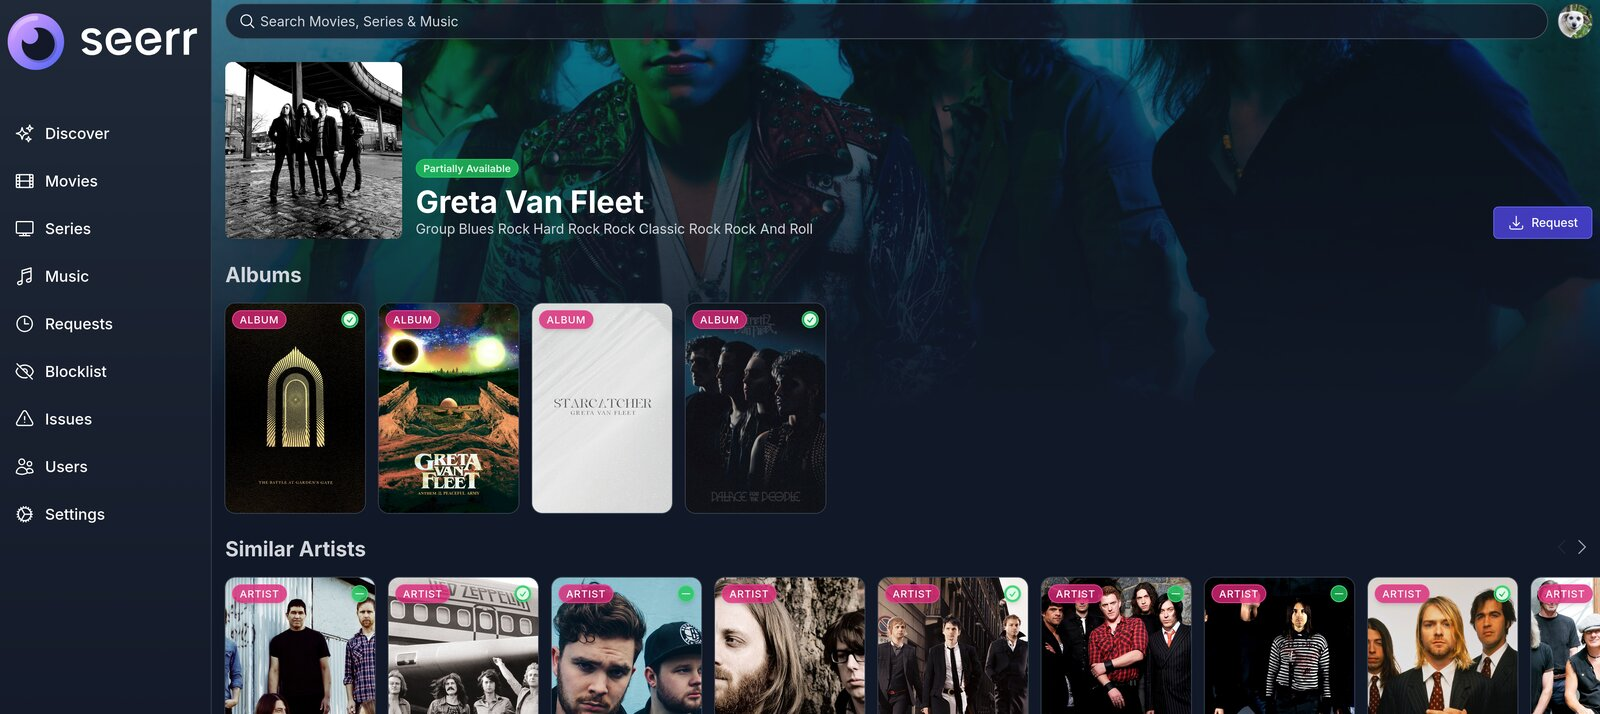
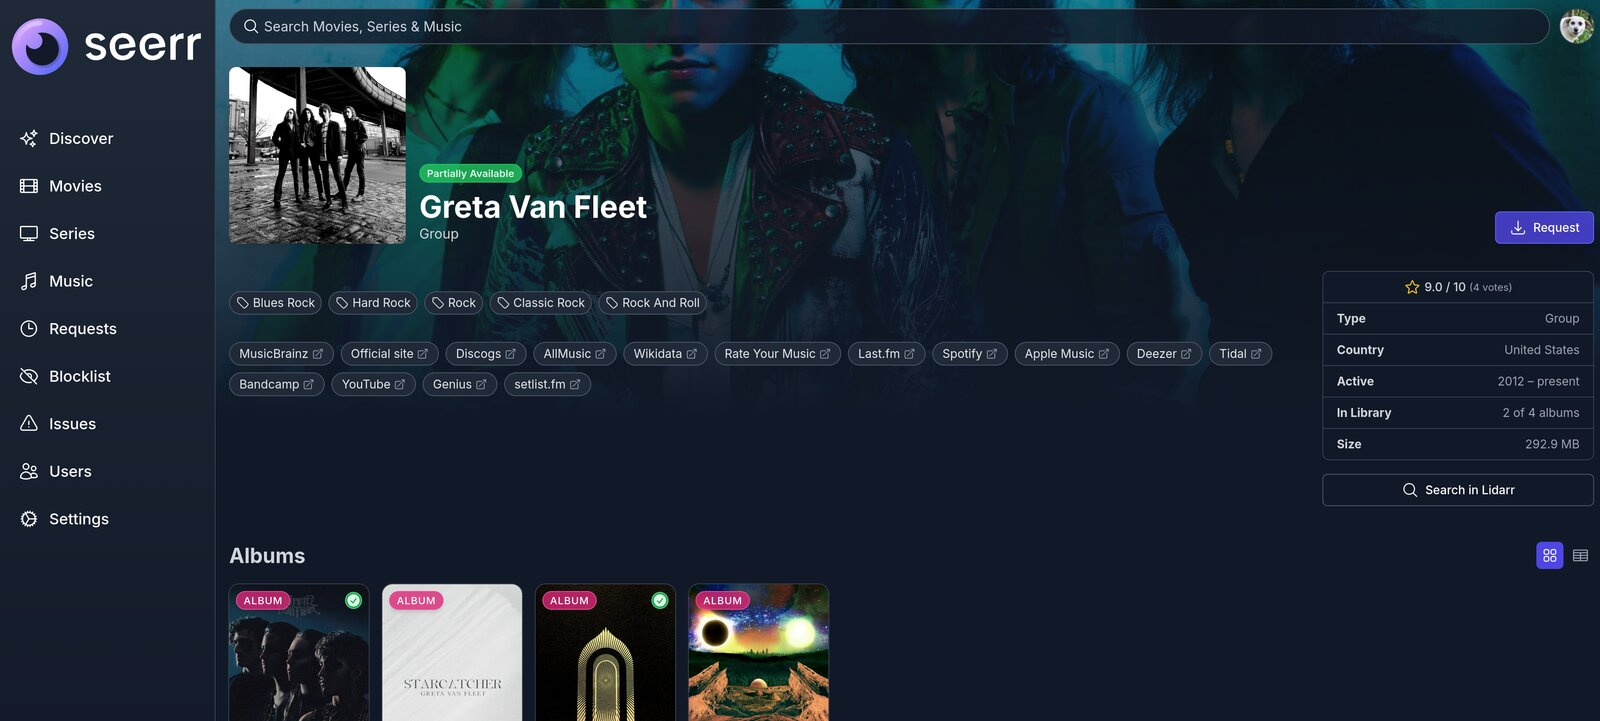
docs(readme): new artist page screenshot, add album page

diff --git a/README.md b/README.md
@@ -16,7 +16,9 @@
 
 ![Discover Music: Recently Added, Recent Music Requests, Similar to Your Library](.github/readme/music-page.jpg)
 
-![Artist page: albums with their status from Lidarr, Similar Artists](.github/readme/artist-page.jpg)
+![Artist page: genres, links, rating and facts, albums with their status from Lidarr](.github/readme/artist-page.jpg)
+
+![Album page: overview, genres, links, facts with the files Lidarr holds, tracks marked when held](.github/readme/album-page.jpg)
 
 ![Search with the type filter](.github/readme/search-results.jpg)
 
